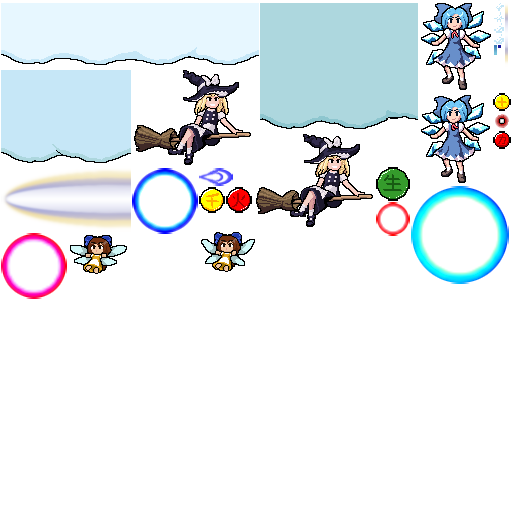
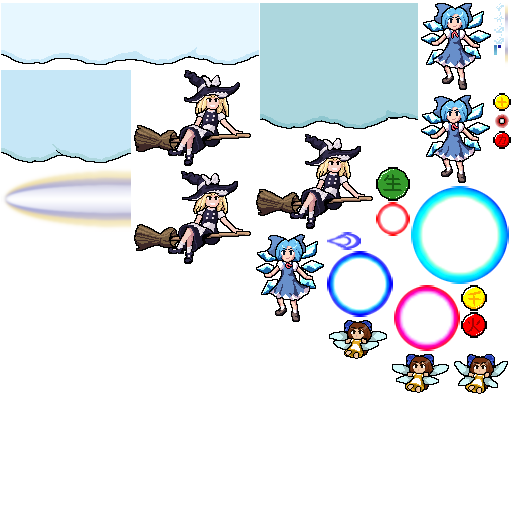
Nicer animations

Changed region(s): [[0.0, 0.125, 1.0, 0.7812]]

diff --git a/src/scenes/game/gameScene.ts b/src/scenes/game/gameScene.ts
@@ -10,10 +10,16 @@ import stageOneData from './../../stages/stage1.lisp?raw';
 import { UIScene } from '../ui/uiScene';
 import { Pickup } from '../../entities/pickup';
 
-const animation_frames = (frame: string, frames: number) => {
+const animation_frames = (frame: string, frames: number | number[]) => {
     const ret = [];
-    for (let i = 0; i < frames; i++) {
-        ret.push({ key: 'packed', frame: `${frame}_${i}` });
+    if(Array.isArray(frames)){
+        for (let i = 0; i < frames.length; i++) {
+            ret.push({ key: 'packed', frame: `${frame}_${frames[i]}` });
+        }
+    } else {
+        for (let i = 0; i < frames; i++) {
+            ret.push({ key: 'packed', frame: `${frame}_${i}` });
+        }
     }
     return ret;
 };
@@ -105,19 +111,19 @@ export class GameScene extends Scene {
         this.bossFade = 0;
         this.anims.create({
             key: 'fairy_animated',
-            frames: animation_frames('fairy', 2),
+            frames: animation_frames('fairy', [0,1,2,1]),
             frameRate: 6,
             repeat: -1,
         });
         this.anims.create({
             key: 'player_animated',
-            frames: animation_frames('player', 2),
+            frames: animation_frames('player', [0,1,2,1]),
             frameRate: 6,
             repeat: -1,
         });
         this.anims.create({
             key: 'boss_animated',
-            frames: animation_frames('boss', 2),
+            frames: animation_frames('boss', [0,1,2,1]),
             frameRate: 6,
             repeat: -1,
         });

diff --git a/src/entities/player.ts b/src/entities/player.ts
@@ -319,7 +319,7 @@ export class Player extends Physics.Arcade.Sprite {
         if (bomb) {
             this.bomb();
         }
-        let speed = focus ? 156 : 500;
+        let speed = focus ? 156 : 460;
 
         if (this.bombingUntil > this.scene.time.now) {
             this.magnetDD = 1536 * 1536;
